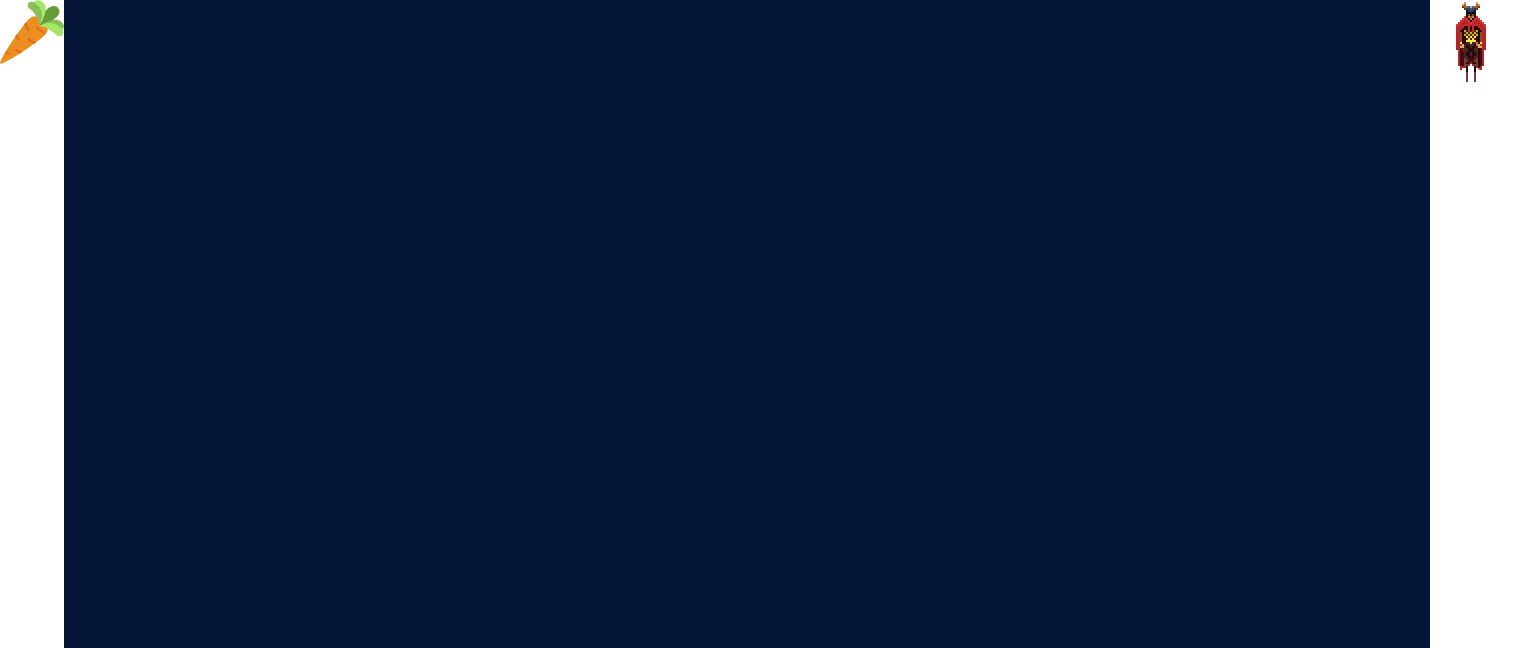
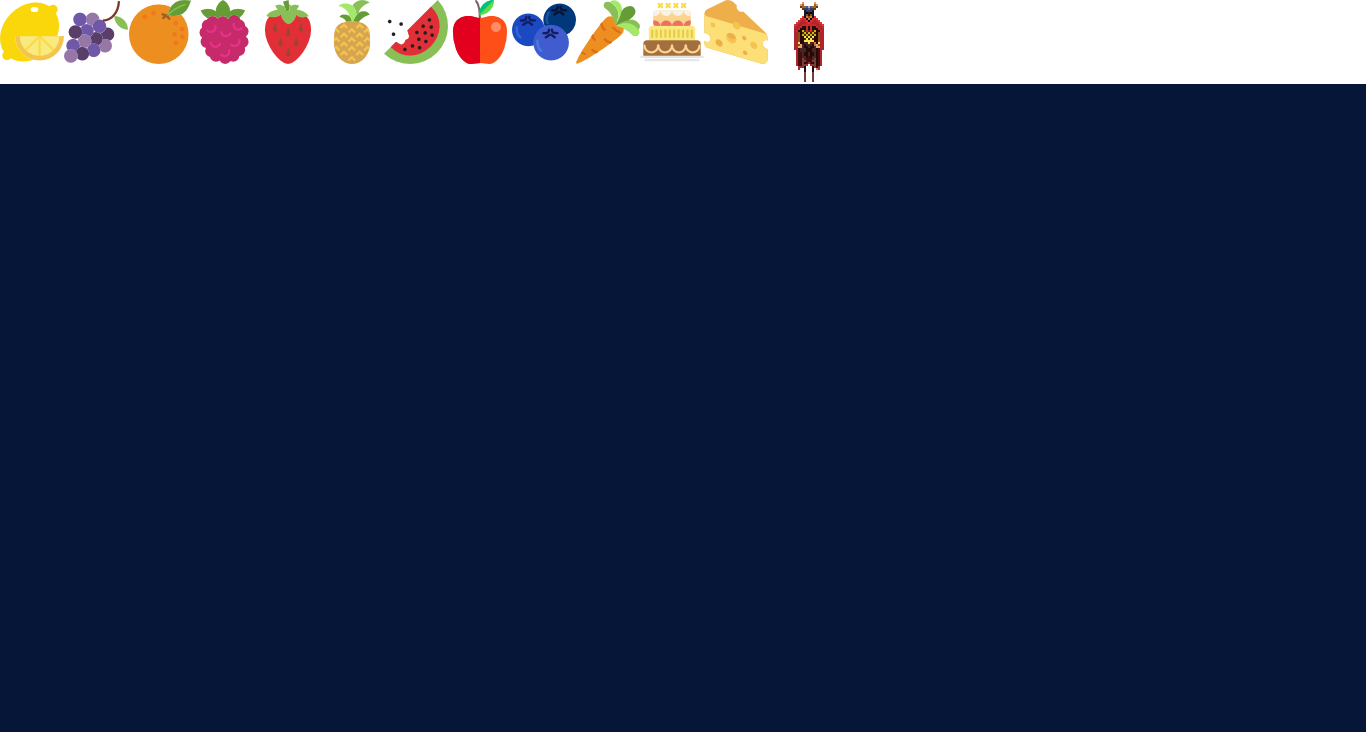
update

Changed region(s): [[0.0, 0.0, 1.0, 1.0]]

diff --git a/app/js/main.js b/app/js/main.js
@@ -3,7 +3,8 @@ var Application = PIXI.Application,
     TextureCache = PIXI.utils.TextureCache,
     resources = PIXI.loader.resources,
     Sprite = PIXI.Sprite,
-    Text = PIXI.Text;
+    Text = PIXI.Text,
+    TextStyle = PIXI.TextStyle;
 
 var app = new Application({
         antialias: true,
@@ -23,7 +24,7 @@ loader
     .add("../app/images/all.json")
     .load(setup);
 
-var dungeon, human, carrot, id, state;
+var dungeon, human, carrot, apple, blueberries, cake, cheese, grapes, lemon, orange, pineapple, raspberry, strawberry, watermelon, id, state, message;
 
 function setup() {
     var dungeonTexture = TextureCache["dungeon.png"];
@@ -33,19 +34,98 @@ function setup() {
     id = PIXI.loader.resources["../app/images/all.json"].textures;
 
     carrot = new Sprite(id["carrot.png"]);
-
     carrot.vx = 0;
     carrot.vy = 0;
-
     carrot.x = app.stage.width - carrot.width - 650;
     carrot.y = app.stage.height / 6 - carrot.height / 6;
-
     app.stage.addChild(carrot);
+
+    apple = new Sprite(id["apple.png"]);
+    apple.vx = 0;
+    apple.vy = 0;
+    apple.x = app.stage.width - apple.width - 650;
+    apple.y = app.stage.height / 2 - apple.height / 2;
+    app.stage.addChild(apple);
+
+    blueberries = new Sprite(id["blueberries.png"]);
+    blueberries.vx = 0;
+    blueberries.vy = 0;
+    blueberries.x = app.stage.width - blueberries.width - 450;
+    blueberries.y = app.stage.height / 2 - blueberries.height / 4;
+    app.stage.addChild(blueberries);
+
+    cake = new Sprite(id["cake.png"]);
+    cake.vx = 0;
+    cake.vy = 0;
+    cake.x = app.stage.width - cake.width - 850;
+    cake.y = app.stage.height / 2 - cake.height / 6;
+    app.stage.addChild(cake);
+
+
+    cheese = new Sprite(id["cheese.png"]);
+    cheese.vx = 0;
+    cheese.vy = 0;
+    cheese.x = app.stage.width - cheese.width - 850;
+    cheese.y = app.stage.height / 6 - cheese.height / 6;
+    app.stage.addChild(cheese);
+
+
+    grapes = new Sprite(id["grapes.png"]);
+    grapes.vx = 0;
+    grapes.vy = 0;
+    grapes.x = app.stage.width - grapes.width - 50;
+    grapes.y = app.stage.height / 2 - grapes.height / 2;
+    app.stage.addChild(grapes);
+
+
+    lemon = new Sprite(id["lemon.png"]);
+    lemon.vx = 0;
+    lemon.vy = 0;
+    lemon.x = app.stage.width - lemon.width - 150;
+    lemon.y = app.stage.height / 1 - lemon.height / 1;
+    app.stage.addChild(lemon);
+
+
+    orange = new Sprite(id["orange.png"]);
+    orange.vx = 0;
+    orange.vy = 0;
+    orange.x = app.stage.width - orange.width - 350;
+    orange.y = app.stage.height / 4 - orange.height / 4;
+    app.stage.addChild(orange);
+
+    pineapple = new Sprite(id["pineapple.png"]);
+    pineapple.vx = 0;
+    pineapple.vy = 0;
+    pineapple.x = app.stage.width - pineapple.width - 950;
+    pineapple.y = app.stage.height / 1 - pineapple.height / 1;
+    app.stage.addChild(pineapple);
+
+    raspberry = new Sprite(id["raspberry.png"]);
+    raspberry.vx = 0;
+    raspberry.vy = 0;
+    raspberry.x = app.stage.width - raspberry.width - 1050;
+    raspberry.y = app.stage.height / 6 - raspberry.height / 6;
+    app.stage.addChild(raspberry);
+
+    strawberry = new Sprite(id["strawberry.png"]);
+    strawberry.vx = 0;
+    strawberry.vy = 0;
+    strawberry.x = app.stage.width - strawberry.width - 1050;
+    strawberry.y = app.stage.height / 1 - strawberry.height / 1;
+    app.stage.addChild(strawberry);
+
+
+    watermelon = new Sprite(id["watermelon.png"]);
+    watermelon.vx = 0;
+    watermelon.vy = 0;
+    watermelon.x = app.stage.width - lemon.width - 150;
+    watermelon.y = app.stage.height / 6 - lemon.height / 16;
+    app.stage.addChild(watermelon);
 
     human = new Sprite(
         resources["../app/images/all.json"].textures["human.png"]
     );
-    //human.x = 68;
+
     human.y = 96;
     human.vx = 0;
     human.vy = 0;
@@ -104,6 +184,16 @@ function setup() {
         }
     };
 
+
+    var style = new TextStyle({
+        fontFamily: "sans-serif",
+        fontSize: 18,
+        fill: "white",
+    });
+    message = new Text("...", style);
+    message.position.set(8, 8);
+    app.stage.addChild(message);
+
     state = play;
     app.ticker.add(delta => gameLoop(delta));
 }
@@ -114,25 +204,51 @@ function setup() {
 function gameLoop(delta){
     state(delta);
 
-    carrot.vx = -1;
-    carrot.vy = 0;
-
+    carrot.vx = -0.5;
+    carrot.vy = 0.5;
     carrot.x += carrot.vx;
     carrot.y += carrot.vy;
 
-    // for(carrotX = -1; carrotX <= 1.5; carrotX++ ){
-    //     for(carrotY = 1; carrotY <= 1.5; carrotY++) {
-    //         carrot.x += carrotX;
-    //         carrot.y += carrotY;
-    //         if((carrotX = 1.5)&&(carrotY = 1.5)){
-    //             carrot.vy = -1;
-    //             carrot.vx = 1;
-    //             console.log("test");
-    //         }else {
-    //             console.log("no");
-    //         }
-    //     }
-    // }
+    apple.vx = 0.5;
+    apple.vy = 0.5;
+    apple.x += apple.vx;
+    apple.y += apple.vy;
+
+    blueberries.vx = -0.5;
+    blueberries.vy = -0.5;
+    blueberries.x += blueberries.vx;
+    blueberries.y += blueberries.vy;
+
+    cake.vx = 1;
+    cake.vy = 0.5;
+    cake.x += cake.vx;
+    cake.y += cake.vy;
+
+    cheese.vx = 1;
+    cheese.vy = 1;
+    cheese.x += cheese.vx;
+    cheese.y += cheese.vy;
+
+    grapes.vx = -0.5;
+    grapes.vy = -0.5;
+    grapes.x += grapes.vx;
+    grapes.y += grapes.vy;
+
+    lemon.vx = 0.5;
+    lemon.vy = -1;
+    lemon.x += lemon.vx;
+    lemon.y += lemon.vy;
+
+    orange.vx = -1;
+    orange.vy = -1;
+    orange.x += orange.vx;
+    orange.y += orange.vy;
+
+    pineapple.vx = 0.5;
+    pineapple.vy = 1;
+    pineapple.x += pineapple.vx;
+    pineapple.y += pineapple.vy;
+
 }
 
 function play(delta) {
@@ -141,16 +257,135 @@ function play(delta) {
 
 
     if (hitTestRectangle(human, carrot)) {
-        carrot.tint = 0xccff99;
-        for(var text = 0;text<=10 ; text++){
-            if(text == 10) {
-                console.log(text);
+        carrot.tint = 0xff3300;
+        for(var text = 0; text <=1; text++){
+            message.text = text;
+            if(message.text == 100) {
+                message.text = "game over";
             }else{
-                console.log("game over");
+                message.text == "";
             }
         }
     } else {
-        carrot.tint = 0xff3300;
+        carrot.tint = 0xccff99;
+    }
+
+
+    if (hitTestRectangle(human, apple)) {
+        apple.tint = 0xff3300;
+        for(var text = 0; text <=1; text++){
+            message.text = text;
+            if(message.text == 100) {
+                message.text = "game over";
+            }else{
+                message.text == "";
+            }
+        }
+    } else {
+        apple.tint = 0xccff99;
+    }
+
+    if (hitTestRectangle(human, blueberries)) {
+        blueberries.tint = 0xff3300;
+        for(var text = 0; text <= 1; text++){
+            message.text = text;
+            if(message.text == 100) {
+                message.text = "game over";
+            }else{
+                message.text == "";
+            }
+        }
+    } else {
+        blueberries.tint = 0xccff99;
+    }
+
+
+    if (hitTestRectangle(human, cake)) {
+        cake.tint = 0xff3300;
+        for(var text = 0; text <= 1; text++){
+            message.text = text;
+            if(message.text == 100) {
+                message.text = "game over";
+            }else{
+                message.text == "";
+            }
+        }
+    } else {
+        cake.tint = 0xccff99;
+    }
+
+
+    if (hitTestRectangle(human, grapes)) {
+        grapes.tint = 0xff3300;
+        for(var text = 0; text <= 1; text++){
+            message.text = text;
+            if(message.text == 100) {
+                message.text = "game over";
+            }else{
+                message.text == "";
+            }
+        }
+    } else {
+        grapes.tint = 0xccff99;
+    }
+
+
+    if (hitTestRectangle(human, lemon)) {
+        lemon.tint = 0xff3300;
+        for(var text = 0; text <= 1; text++){
+            message.text = text;
+            if(message.text == 100) {
+                message.text = "game over";
+            }else{
+                message.text == "";
+            }
+        }
+    } else {
+        lemon.tint = 0xccff99;
+    }
+
+
+    if (hitTestRectangle(human, raspberry)) {
+        raspberry.tint = 0xff3300;
+        for(var text = 0; text <= 1; text++){
+            message.text = text;
+            if(message.text == 100) {
+                message.text = "game over";
+            }else{
+                message.text == "";
+            }
+        }
+    } else {
+        raspberry.tint = 0xccff99;
+    }
+
+
+    if (hitTestRectangle(human, watermelon)) {
+        watermelon.tint = 0xff3300;
+        for(var text = 0; text <= 1; text++){
+            message.text = text;
+            if(message.text == 100) {
+                message.text = "game over";
+            }else{
+                message.text == "";
+            }
+        }
+    } else {
+        watermelon.tint = 0xccff99;
+    }
+
+    if (hitTestRectangle(human, cheese)) {
+        cheese.tint = 0xff3300;
+        for(var text = 0; text <= 1; text++){
+            message.text = text;
+            if(message.text == 100) {
+                message.text = "game over";
+            }else{
+                message.text == "";
+            }
+        }
+    } else {
+        cheese.tint = 0xccff99;
     }
 }
 
